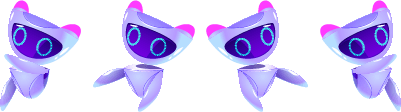
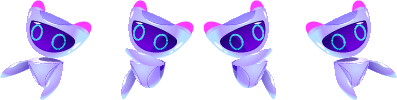
add: smack attack animation and heart rotation

diff --git a/frontend/src/Components/Game/GameScene.js b/frontend/src/Components/Game/GameScene.js
@@ -6,12 +6,16 @@ import roseRobotAsset from '../../assets/rose-robot.png';
 import blueHug from '../../assets/blue-hug.png';
 import roseHug from '../../assets/rose-hug.png';
 import heart from '../../assets/heart-rotation.png';
+import blueKiss from '../../assets/blue-smack.png';
+import roseKiss from '../../assets/rose-smack.png';
 
 const BLUE_ROBOT_KEY = 'blue-robot';
 const ROSE_ROBOT_KEY = 'rose-robot';
 const BLUE_HUG_KEY = 'blue-hug';
 const ROSE_HUG_KEY = 'rose-hug';
 const HEART = 'heart';
+const BLUE_KISS_KEY = 'blue-kiss';
+const ROSE_KISS_KEY = 'rose-kiss';
 
 class GameScene extends Phaser.Scene {
   constructor() {
@@ -55,6 +59,15 @@ class GameScene extends Phaser.Scene {
     this.load.spritesheet(HEART, heart, {
       frameWidth: 35.25,
       frameHeight: 30,
+    });
+
+    this.load.spritesheet(BLUE_KISS_KEY, blueKiss, {
+      frameWidth: 96,
+      frameHeight: 99,
+    });
+    this.load.spritesheet(ROSE_KISS_KEY, roseKiss, {
+      frameWidth: 99,
+      frameHeight: 99,
     });
   }
 
@@ -117,6 +130,15 @@ class GameScene extends Phaser.Scene {
       this.player1.anims.play('left-blue-hug', true);
     }
 
+    // Smack animation
+    if (this.cursors.right.isDown && this.input.keyboard.addKey('P').isDown) {
+      this.player1.anims.play('right-blue-kiss', true);
+    }
+    else if (this.input.keyboard.addKey('P').isDown) {
+      this.player1.anims.play('left-blue-kiss', true);
+    }
+
+
     // player 2 controls
     if (this.input.keyboard.addKey('Q').isDown) {
       this.player2.setVelocityX(-250);
@@ -141,6 +163,14 @@ class GameScene extends Phaser.Scene {
       this.player2.anims.play('right-rose-hug', true);
     }
 
+    // Smack animation
+    if (this.input.keyboard.addKey('Q').isDown && this.input.keyboard.addKey('B').isDown) {
+      this.player2.anims.play('left-rose-kiss', true);
+    }
+    else if (this.input.keyboard.addKey('B').isDown) {
+      this.player2.anims.play('right-rose-kiss', true);
+    }
+
     // Kiss attack
     this.heartsPlayer1.getChildren().forEach((h) => {
       h.update(); 
@@ -159,7 +189,7 @@ class GameScene extends Phaser.Scene {
     });
 
     // Player 1 kiss attack
-    if( this.cursors.right.isDown && Phaser.Input.Keyboard.JustDown(this.input.keyboard.addKey('P')) && !this.kissPlayer1){
+    if(this.cursors.right.isDown && Phaser.Input.Keyboard.JustDown(this.input.keyboard.addKey('P')) && !this.kissPlayer1){
       this.createHeart(this.player1, 300);
       this.kissPlayer1 = true;
     }
@@ -213,10 +243,18 @@ class GameScene extends Phaser.Scene {
       repeat: -1,
     });
 
-    // HUG attack
     let hugKey;
-    if(key === ROSE_ROBOT_KEY) hugKey = ROSE_HUG_KEY;
-    else hugKey = BLUE_HUG_KEY;
+    let kissKey;
+    if(key === ROSE_ROBOT_KEY) {
+      hugKey = ROSE_HUG_KEY;
+      kissKey = ROSE_KISS_KEY;
+    }
+    else {
+      hugKey = BLUE_HUG_KEY;
+      kissKey = BLUE_KISS_KEY;
+    }
+    
+    // HUG attack
     this.anims.create({
       // eslint-disable-next-line prefer-template
       key: 'right-' + hugKey,
@@ -228,7 +266,20 @@ class GameScene extends Phaser.Scene {
       key: 'left-' + hugKey,
       frames: [{ key: hugKey, frame: 0 }],
     });
-  
+
+    // KISS attack
+    this.anims.create({
+      // eslint-disable-next-line prefer-template
+      key: 'right-' + kissKey,
+      frames: [{ key: kissKey, frame: 2 }],
+    });
+
+    this.anims.create({
+      // eslint-disable-next-line prefer-template
+      key: 'left-' + kissKey,
+      frames: [{ key: kissKey, frame: 1 }],
+    });
+
     return player;
   }
 
@@ -243,6 +294,15 @@ class GameScene extends Phaser.Scene {
 
   createHeart(player, velocityX){
     const heartAttack = this.physics.add.sprite(player.x,player.y, HEART);
+
+    heartAttack.anims.create({
+      key: HEART,
+      frames: this.anims.generateFrameNumbers(HEART, { start: 0, end: 11 }),
+      frameRate: 10,
+      repeat: -1,
+    });
+    heartAttack.anims.play(HEART);
+
     if(player === this.player1){
       this.heartsPlayer1.add(heartAttack);
     }
